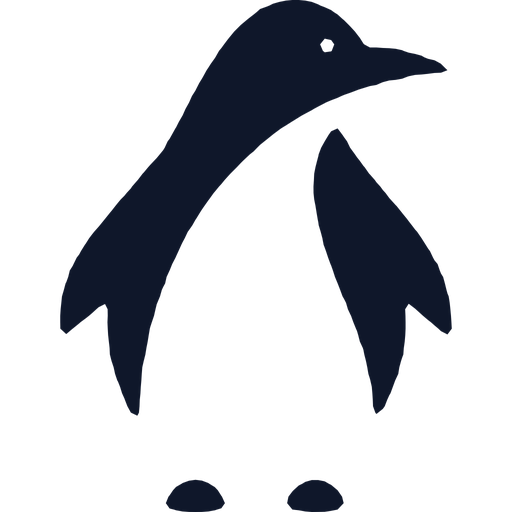
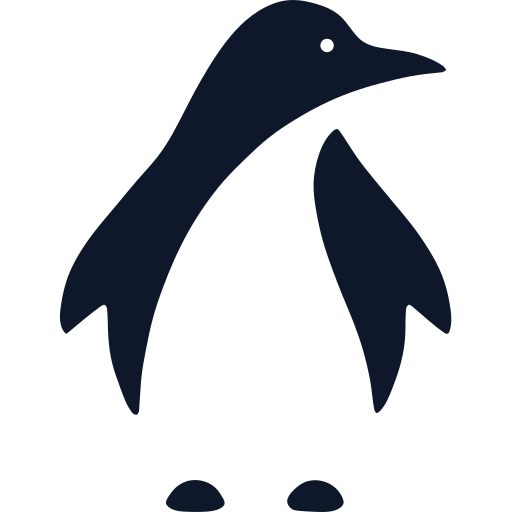
fix(video): 로고 곡선 매끄럽게 재작성 - 자동 트레이스 계단·각진 면 제거하고 베지어 곡선으로 재피팅, 눈 원형·발 정리, SVG·PNG·파비콘 재생성

Changed region(s): [[0.6875, 0.0625, 0.75, 0.0938], [0.75, 0.0938, 0.7812, 0.125], [0.625, 0.0625, 0.6562, 0.0938]]

diff --git a/reportist-video/src/components/common/PenguinLogo.tsx b/reportist-video/src/components/common/PenguinLogo.tsx
@@ -52,7 +52,7 @@ export function PenguinLogo({
       aria-hidden="true"
       {...props}
     >
-      <path d="M 52.79 8.61 L 52.18 8.92 L 51.73 9.10 L 50.67 9.48 L 50.12 9.98 L 49.61 10.39 L 48.77 11.04 L 48.55 11.22 L 47.50 12.10 L 47.49 12.11 L 46.44 13.16 L 46.43 13.17 L 45.57 14.22 L 45.37 14.47 L 44.76 15.28 L 44.31 15.90 L 43.94 16.34 L 43.34 17.40 L 43.25 17.54 L 42.59 18.46 L 42.19 19.09 L 41.90 19.52 L 41.32 20.58 L 41.13 20.91 L 40.68 21.64 L 40.14 22.70 L 40.07 22.85 L 39.49 23.76 L 39.02 24.82 L 39.01 24.84 L 38.43 25.88 L 37.96 26.94 L 37.95 26.95 L 37.34 28.00 L 36.89 28.90 L 36.78 29.06 L 36.19 30.12 L 35.83 30.77 L 35.51 31.18 L 35.02 32.24 L 34.77 32.64 L 34.23 33.30 L 33.71 33.93 L 33.30 34.36 L 32.65 35.05 L 32.32 35.42 L 31.59 36.30 L 31.41 36.48 L 30.60 37.54 L 30.53 37.61 L 29.67 38.60 L 29.47 38.91 L 28.78 39.66 L 28.41 40.12 L 27.81 40.72 L 27.35 41.27 L 26.94 41.78 L 26.29 42.61 L 26.09 42.84 L 25.24 43.90 L 25.23 43.91 L 24.38 44.96 L 24.17 45.21 L 23.45 46.02 L 23.11 46.45 L 22.63 47.08 L 22.05 48.00 L 21.94 48.14 L 21.28 49.20 L 20.99 49.75 L 20.59 50.26 L 20.07 51.32 L 19.93 51.62 L 19.45 52.38 L 19.19 53.44 L 18.87 54.31 L 18.76 54.50 L 18.48 55.56 L 18.17 56.62 L 18.06 57.68 L 17.95 58.74 L 17.88 59.80 L 17.88 60.86 L 17.90 61.92 L 18.87 62.81 L 19.92 61.92 L 19.93 61.92 L 20.99 61.06 L 21.21 60.86 L 22.05 60.24 L 22.61 59.80 L 23.11 59.37 L 23.80 58.74 L 24.17 58.41 L 25.23 57.87 L 25.66 58.74 L 25.68 59.80 L 25.63 60.86 L 25.68 61.92 L 25.74 62.98 L 25.86 64.04 L 25.98 65.10 L 26.03 66.16 L 26.29 67.19 L 26.30 67.22 L 26.65 68.28 L 26.88 69.34 L 27.24 70.41 L 27.35 70.59 L 27.70 71.47 L 28.03 72.53 L 28.41 73.37 L 28.49 73.59 L 28.90 74.65 L 29.47 75.69 L 29.50 75.71 L 30.53 76.20 L 30.79 75.71 L 30.89 74.65 L 30.93 73.59 L 31.04 72.53 L 31.10 71.47 L 31.19 70.41 L 31.26 69.34 L 31.34 68.28 L 31.58 67.22 L 31.59 67.19 L 31.85 66.16 L 32.02 65.10 L 32.23 64.04 L 32.40 62.98 L 32.58 61.92 L 32.65 61.65 L 32.91 60.86 L 33.27 59.80 L 33.51 58.74 L 33.71 57.92 L 33.81 57.68 L 34.25 56.62 L 34.55 55.56 L 34.77 55.09 L 35.09 54.50 L 35.33 53.44 L 35.82 52.38 L 35.83 52.37 L 36.25 51.32 L 36.80 50.26 L 36.89 50.05 L 37.28 49.20 L 37.76 48.14 L 37.95 47.75 L 38.31 47.08 L 38.81 46.02 L 39.01 45.75 L 39.56 44.96 L 40.07 44.05 L 40.18 43.90 L 40.83 42.84 L 41.13 42.37 L 41.54 41.78 L 42.19 40.86 L 42.30 40.72 L 43.06 39.66 L 43.25 39.44 L 43.94 38.60 L 44.31 38.20 L 44.85 37.54 L 45.37 36.96 L 45.81 36.48 L 46.43 35.86 L 46.87 35.42 L 47.49 34.76 L 47.89 34.36 L 48.55 33.74 L 49.02 33.30 L 49.61 32.84 L 50.19 32.24 L 50.67 31.76 L 51.39 31.18 L 51.73 30.91 L 52.71 30.12 L 52.79 30.05 L 53.85 29.26 L 54.12 29.06 L 54.91 28.58 L 55.82 28.00 L 55.97 27.91 L 57.03 27.25 L 57.53 26.94 L 58.09 26.64 L 59.15 26.08 L 59.46 25.88 L 60.21 25.48 L 61.27 24.93 L 61.46 24.82 L 62.33 24.45 L 63.39 24.05 L 64.00 23.76 L 64.45 23.57 L 65.51 23.20 L 66.57 22.80 L 66.81 22.70 L 67.63 22.45 L 68.69 22.12 L 69.75 21.94 L 70.42 21.64 L 70.81 21.48 L 71.87 21.20 L 72.93 21.10 L 73.99 20.91 L 74.84 20.58 L 75.05 20.51 L 76.11 20.29 L 77.17 20.22 L 78.23 20.11 L 79.29 19.97 L 80.35 19.93 L 81.40 19.52 L 80.35 18.48 L 80.34 18.46 L 79.29 17.89 L 78.23 17.65 L 77.60 17.40 L 77.17 17.14 L 76.11 16.85 L 75.05 16.64 L 74.18 16.34 L 73.99 16.24 L 72.93 16.01 L 71.87 15.91 L 70.81 15.87 L 69.75 15.79 L 68.69 15.79 L 67.75 15.28 L 67.63 15.16 L 67.04 14.22 L 66.57 13.62 L 66.22 13.16 L 65.51 12.39 L 65.23 12.10 L 64.45 11.32 L 64.11 11.04 L 63.39 10.38 L 62.76 9.98 L 62.33 9.66 L 61.27 9.18 L 60.58 8.92 L 60.21 8.72 L 59.15 8.31 L 58.09 8.10 L 57.03 8.00 L 55.97 8.00 L 54.91 8.10 L 53.85 8.31 L 52.79 8.61 Z M 61.27 14.34 L 62.33 14.57 L 62.84 15.28 L 62.43 16.34 L 62.33 16.43 L 61.27 16.58 L 60.97 16.34 L 60.52 15.28 L 61.27 14.34 Z M 62.33 29.54 L 61.92 30.12 L 61.28 31.18 L 61.27 31.20 L 60.69 32.24 L 60.29 33.30 L 60.21 33.69 L 60.03 34.36 L 59.76 35.42 L 59.55 36.48 L 59.50 37.54 L 59.43 38.60 L 59.44 39.66 L 59.55 40.72 L 59.76 41.78 L 59.93 42.84 L 60.11 43.90 L 60.21 44.41 L 60.29 44.96 L 60.61 46.02 L 60.89 47.08 L 61.09 48.14 L 61.27 48.62 L 61.48 49.20 L 61.83 50.26 L 62.22 51.32 L 62.33 51.56 L 62.62 52.38 L 62.96 53.44 L 63.39 54.48 L 63.40 54.50 L 63.81 55.56 L 64.20 56.62 L 64.45 57.05 L 64.77 57.68 L 65.08 58.74 L 65.51 59.65 L 65.59 59.80 L 65.97 60.86 L 66.40 61.92 L 66.57 62.30 L 66.77 62.98 L 67.04 64.04 L 67.53 65.10 L 67.63 65.43 L 67.77 66.16 L 68.04 67.22 L 68.26 68.28 L 68.44 69.34 L 68.69 70.13 L 68.76 70.41 L 69.00 71.47 L 69.09 72.53 L 69.16 73.59 L 69.20 74.65 L 69.58 75.71 L 69.75 75.92 L 70.02 75.71 L 70.81 75.08 L 71.12 74.65 L 71.53 73.59 L 71.87 72.84 L 72.06 72.53 L 72.45 71.47 L 72.84 70.41 L 72.93 70.22 L 73.34 69.34 L 73.51 68.28 L 73.80 67.22 L 73.99 66.64 L 74.17 66.16 L 74.25 65.10 L 74.40 64.04 L 74.49 62.98 L 74.54 61.92 L 74.54 60.86 L 74.52 59.80 L 74.47 58.74 L 75.05 57.83 L 76.11 58.64 L 76.22 58.74 L 77.17 59.60 L 77.39 59.80 L 78.23 60.51 L 78.69 60.86 L 79.29 61.39 L 79.92 61.92 L 80.35 62.33 L 81.41 62.87 L 82.12 61.92 L 82.06 60.86 L 81.99 59.80 L 81.89 58.74 L 81.78 57.68 L 81.61 56.62 L 81.41 56.14 L 81.25 55.56 L 80.99 54.50 L 80.70 53.44 L 80.35 52.88 L 80.15 52.38 L 79.79 51.32 L 79.29 50.72 L 79.04 50.26 L 78.54 49.20 L 78.23 48.78 L 77.83 48.14 L 77.17 47.10 L 77.16 47.08 L 76.43 46.02 L 76.11 45.67 L 75.57 44.96 L 75.05 44.29 L 74.76 43.90 L 73.99 42.96 L 73.90 42.84 L 73.05 41.78 L 72.93 41.67 L 72.07 40.72 L 71.87 40.50 L 71.25 39.66 L 70.81 39.18 L 70.39 38.60 L 69.75 37.90 L 69.50 37.54 L 68.69 36.62 L 68.55 36.48 L 67.81 35.42 L 67.63 35.23 L 67.01 34.36 L 66.57 33.81 L 66.22 33.30 L 65.51 32.33 L 65.44 32.24 L 64.93 31.18 L 64.45 30.52 L 64.18 30.12 L 63.39 29.07 L 62.33 29.54 Z M 37.95 87.25 L 37.79 87.37 L 36.89 87.88 L 36.39 88.43 L 35.83 89.26 L 35.64 89.49 L 35.21 90.55 L 35.83 91.43 L 36.57 91.61 L 36.89 91.72 L 37.95 91.91 L 39.01 91.99 L 40.07 92.00 L 41.13 91.99 L 42.19 91.91 L 43.25 91.72 L 43.57 91.61 L 44.31 91.39 L 44.90 90.55 L 44.42 89.49 L 44.31 89.34 L 43.73 88.43 L 43.25 87.92 L 42.35 87.37 L 42.19 87.25 L 41.13 86.85 L 40.07 86.72 L 39.01 86.87 L 37.95 87.25 L 37.95 87.25 Z M 58.09 87.06 L 57.59 87.37 L 57.03 87.64 L 56.16 88.43 L 55.97 88.63 L 55.32 89.49 L 55.11 90.55 L 55.97 91.60 L 56.07 91.61 L 57.03 91.72 L 58.09 91.91 L 59.15 92.00 L 60.21 91.99 L 61.27 91.97 L 62.33 91.81 L 63.34 91.61 L 63.39 91.60 L 64.38 90.55 L 64.12 89.49 L 63.39 88.44 L 63.38 88.43 L 62.33 87.55 L 61.96 87.37 L 61.27 86.97 L 60.21 86.76 L 59.15 86.76 L 58.09 87.06 Z" />
+      <path d="M 19.14 62.58 C 20.94 61.09 22.72 59.55 24.61 58.19 C 25.17 57.9 25.26 57.93 25.54 58.5 C 25.72 60 25.66 61.51 25.76 63.03 C 25.85 64.54 26.03 66.06 26.39 67.52 C 26.74 68.99 27.29 70.41 27.81 71.84 C 28.32 73.27 28.84 74.69 29.81 75.86 C 30.46 76.17 30.55 76.14 30.81 75.47 C 30.94 73.76 31.01 72.04 31.16 70.34 C 31.31 68.64 31.64 66.96 31.96 65.28 C 32.29 63.6 32.62 61.92 33.07 60.27 C 33.51 58.62 34.06 57 34.66 55.39 C 35.25 53.79 35.88 52.21 36.58 50.64 C 37.28 49.08 38.04 47.55 38.88 46.05 C 39.71 44.56 40.62 43.11 41.6 41.71 C 42.58 40.3 43.62 38.94 44.75 37.65 C 45.88 36.37 47.1 35.16 48.33 33.98 C 49.56 32.79 50.81 31.61 52.15 30.55 C 53.49 29.49 54.92 28.54 56.38 27.65 C 57.84 26.75 59.33 25.91 60.87 25.16 C 62.4 24.4 63.98 23.73 65.59 23.15 C 67.2 22.57 68.84 22.08 70.49 21.64 C 72.14 21.2 73.8 20.8 75.48 20.49 C 77.15 20.18 78.85 20.02 80.56 19.85 C 81.32 19.55 81.34 19.46 80.76 18.89 C 79.5 17.94 77.92 17.34 76.37 16.86 C 74.81 16.39 73.14 16.23 71.53 16.01 C 69.92 15.79 68.38 15.51 67.19 14.55 C 66 13.58 65.16 11.92 63.97 10.78 C 62.78 9.64 61.23 9.01 59.65 8.57 C 58.07 8.12 56.45 7.87 54.86 8.08 C 53.27 8.3 51.71 8.99 50.32 9.87 C 48.93 10.75 47.72 11.82 46.63 13.01 C 45.53 14.21 44.54 15.53 43.63 16.88 C 42.71 18.23 41.86 19.62 41.05 21.03 C 40.24 22.44 39.47 23.88 38.73 25.33 C 37.98 26.78 37.26 28.25 36.47 29.67 C 35.68 31.09 34.82 32.47 33.82 33.75 C 32.82 35.03 31.69 36.22 30.62 37.45 C 29.54 38.68 28.53 39.94 27.48 41.2 C 26.44 42.45 25.37 43.68 24.34 44.95 C 23.32 46.21 22.34 47.51 21.46 48.88 C 20.58 50.25 19.79 51.71 19.21 53.22 C 18.64 54.73 18.27 56.3 18.02 57.94 C 17.78 59.57 17.6 61.32 18.61 62.57 C 18.84 62.79 18.9 62.79 19.14 62.58  Z M 60.56 15.46 A 1.10 1.10 0 1 1 62.76 15.46 A 1.10 1.10 0 1 1 60.56 15.46 Z M 70.3 75.49 C 71.33 74.42 71.88 72.99 72.42 71.58 C 72.96 70.18 73.46 68.78 73.82 67.33 C 74.19 65.88 74.42 64.38 74.49 62.89 C 74.57 61.39 74.46 59.89 74.67 58.42 C 75.01 57.89 75.11 57.87 75.61 58.26 C 77.38 59.73 79.06 61.35 80.96 62.64 C 81.37 62.85 81.44 62.83 81.71 62.47 C 82.24 60.99 82.04 59.34 81.76 57.74 C 81.49 56.15 81.08 54.59 80.49 53.1 C 79.9 51.61 79.11 50.19 78.26 48.82 C 77.41 47.45 76.5 46.13 75.52 44.86 C 74.53 43.58 73.48 42.35 72.44 41.12 C 71.41 39.89 70.39 38.65 69.36 37.4 C 68.34 36.15 67.32 34.9 66.41 33.58 C 65.5 32.25 64.69 30.85 63.75 29.55 C 63.43 29.12 63.34 29.09 62.84 29.31 C 61.59 30.38 60.84 31.8 60.33 33.33 C 59.81 34.87 59.49 36.48 59.45 38.09 C 59.4 39.7 59.64 41.31 59.93 42.9 C 60.22 44.49 60.56 46.07 61 47.62 C 61.44 49.17 61.98 50.7 62.54 52.22 C 63.1 53.74 63.68 55.24 64.29 56.73 C 64.91 58.23 65.55 59.71 66.13 61.22 C 66.7 62.72 67.22 64.25 67.66 65.81 C 68.09 67.36 68.46 68.94 68.75 70.52 C 69.04 72.11 69.09 73.74 69.43 75.31 C 69.72 75.87 69.8 75.88 70.3 75.49  Z M 37.94 87.23 C 37.53 87.44 37.14 87.71 36.8 88.03 C 36.33 88.46 35.95 88.99 35.61 89.52 C 35.4 89.86 35.12 90.31 35.28 90.72 C 35.32 90.8 35.36 90.88 35.42 90.94 C 35.5 91.04 35.59 91.13 35.69 91.21 C 36.33 91.7 37.16 91.86 37.94 91.92 C 38.44 91.96 38.95 91.97 39.46 91.98 C 40.21 92 40.96 92 41.71 91.95 C 42.52 91.9 43.37 91.81 44.1 91.43 C 44.41 91.27 44.76 91.03 44.84 90.66 C 44.9 90.35 44.74 90.02 44.59 89.75 C 44.48 89.56 44.37 89.37 44.25 89.19 C 44 88.79 43.73 88.4 43.39 88.07 C 42.32 87.04 40.74 86.59 39.28 86.81 C 38.81 86.88 38.37 87.03 37.94 87.23 Z M 58.11 87.06 C 57.38 87.35 56.75 87.84 56.19 88.39 C 55.9 88.68 55.62 88.98 55.41 89.33 C 55.26 89.59 55.13 89.88 55.12 90.19 C 55.1 90.73 55.46 91.25 55.91 91.53 C 56.23 91.72 56.59 91.77 56.96 91.8 C 57.28 91.83 57.61 91.86 57.93 91.88 C 58.73 91.93 59.53 91.97 60.33 91.99 C 61.27 92.02 62.25 92.01 63.14 91.66 C 63.44 91.53 63.75 91.37 64 91.15 C 64.13 91.03 64.25 90.88 64.32 90.71 C 64.43 90.41 64.35 90.08 64.24 89.8 C 64 89.18 63.62 88.6 63.14 88.15 C 61.83 86.9 59.81 86.43 58.11 87.06 Z" />
     </svg>
   );
 }

diff --git a/reportist-video/index.html b/reportist-video/index.html
@@ -10,12 +10,12 @@
     <link rel="canonical" href="https://penguincut.com/" />
 
     <!-- Favicon & Icons -->
-    <link rel="icon" type="image/svg+xml" href="/favicon.svg?v=3" />
-    <link rel="icon" type="image/x-icon" href="/favicon.ico?v=3" />
-    <link rel="icon" type="image/png" sizes="48x48" href="/icon-48x48.png?v=3" />
-    <link rel="icon" type="image/png" sizes="96x96" href="/icon-96x96.png?v=3" />
-    <link rel="icon" type="image/png" sizes="192x192" href="/icon-192x192.png?v=3" />
-    <link rel="apple-touch-icon" href="/icon-192x192.png?v=3" />
+    <link rel="icon" type="image/svg+xml" href="/favicon.svg?v=4" />
+    <link rel="icon" type="image/x-icon" href="/favicon.ico?v=4" />
+    <link rel="icon" type="image/png" sizes="48x48" href="/icon-48x48.png?v=4" />
+    <link rel="icon" type="image/png" sizes="96x96" href="/icon-96x96.png?v=4" />
+    <link rel="icon" type="image/png" sizes="192x192" href="/icon-192x192.png?v=4" />
+    <link rel="apple-touch-icon" href="/icon-192x192.png?v=4" />
 
     <!-- Open Graph / Facebook -->
     <meta property="og:type" content="website" />
